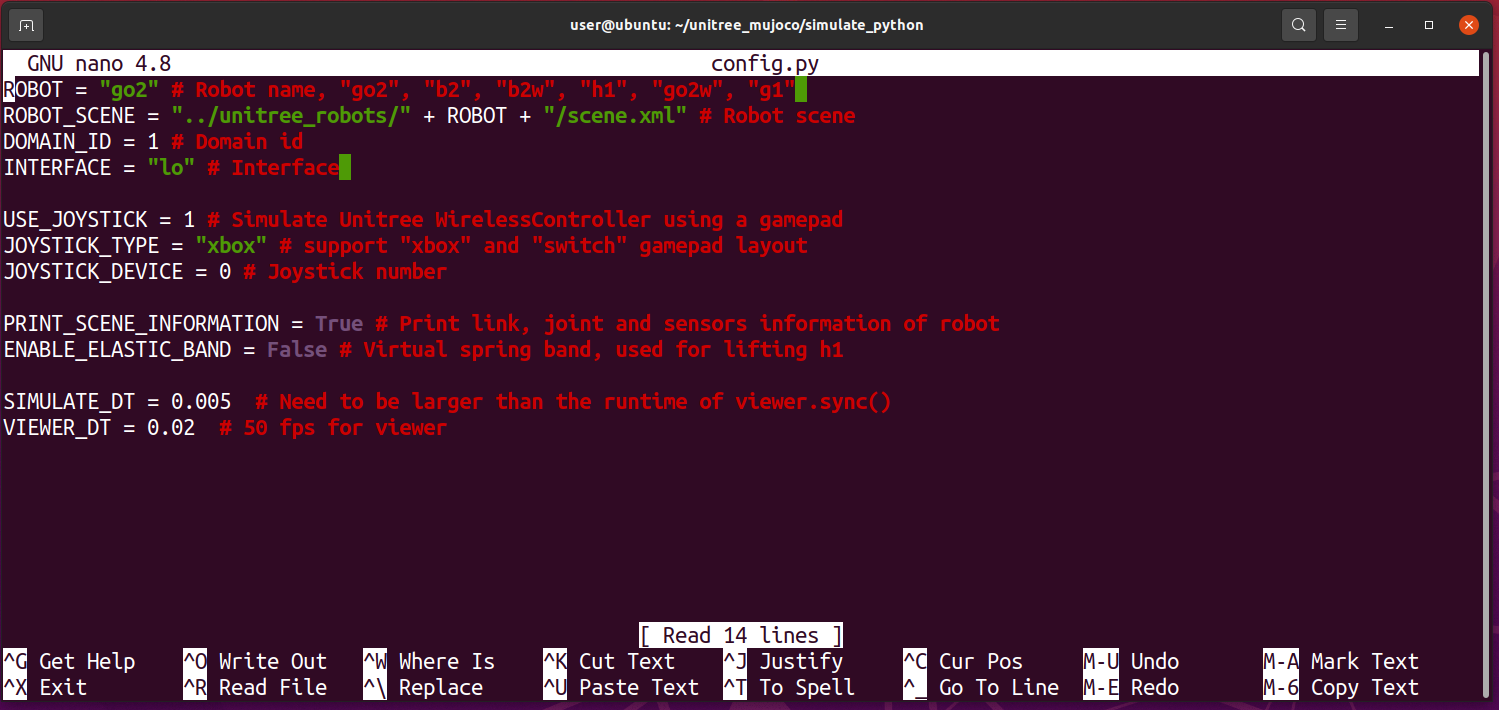
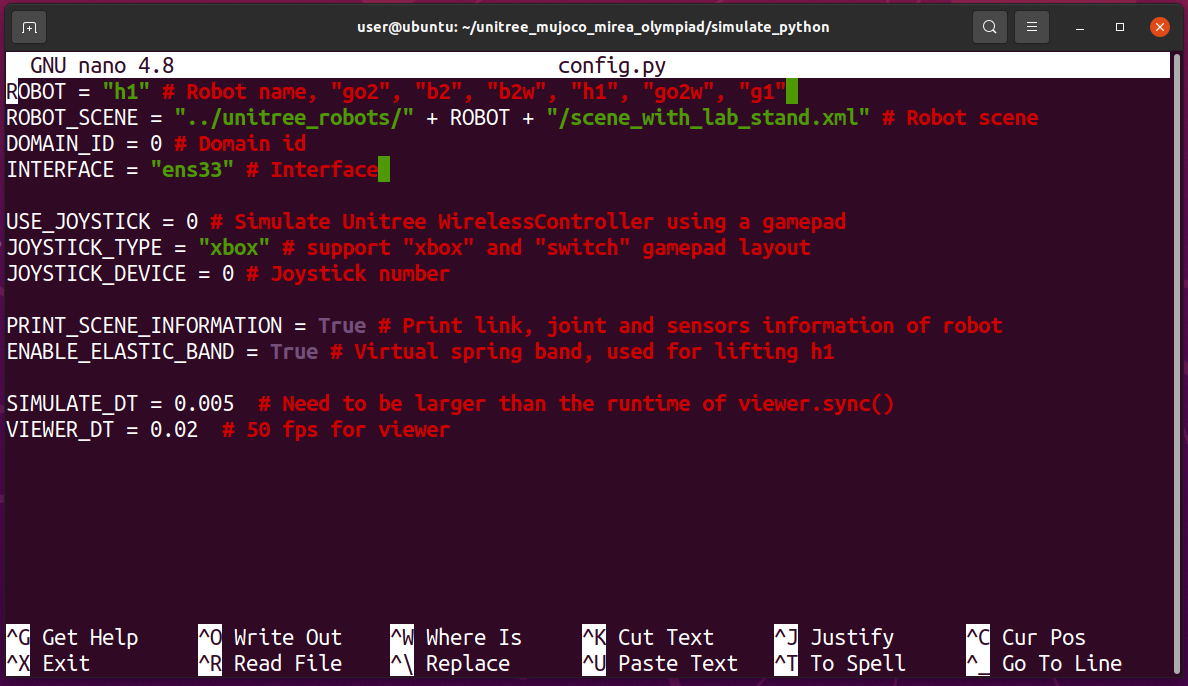
changed config.py info

diff --git a/instructions_and_manuals/5_Как_установить_Mujoco_вместе_с_моделями_Unitree.md b/instructions_and_manuals/5_Как_установить_Mujoco_вместе_с_моделями_Unitree.md
@@ -97,21 +97,28 @@ cd ~/unitree_mujoco_mirea_olympiad/simulate_python
 python3 unitree_mujoco.py
 ```
 
-Должен появиться **робот Unitree H1**, который просто стоит на месте (может не двигаться):
+Должен появиться **робот Unitree H1**, который стоит на месте (может не двигаться):
 
-![Тестовый запуск MuJoCo с робособакой Unitree Go2](photo_for_instructions/mujoco/unitree_mujoco.png)
+![Окно mujoco при запуске с роботом Unitree H1](photo_for_instructions/mujoco/view_when_opened.png)
 
-Если робот не двигается и симуляция как будто остановилась, выполните шаги 8 и 9.
+*Рисунок 3 — Окно mujoco при запуске с роботом Unitree H1*
+
+![Окно mujoco с роботом Unitree H1 при изменении ракурса](photo_for_instructions/mujoco/view_in_the_distance.png)
+
+*Рисунок 4 — Окно mujoco с роботом Unitree H1 при изменении ракурса*
+
+Если робот не двигается и симуляция как будто остановилась, выполните шаги 8 и 9, а если нет — перейдите к шагу 10.
 
 ---
 
 ## ⚙ Шаг 8: Настраиваем подключени
 
-Сейчас симуляция не "общается" с ROS2. Нужно указать правильный сетевой интерфейс и выбрать нужного робота.
+Сейчас симуляция не "общается" с ROS2. Нужно указать правильный сетевой интерфейс.
 
 1. Открой файл настроек:
 
    ```bash
+   cd ~/unitree_mujoco_mirea_olympiad/simulate_python
    nano config.py
    ```
 
@@ -131,7 +138,6 @@ python3 unitree_mujoco.py
 
 3. Вернитесь в `config.py` и измените:
    - `interface` — укажите имя Вашего сетевого интерфейса (например, `"wlan0"`),
-   - убедись, что остальные параметры (подчёркнутые фиолетовым) тоже правильные.
 
    Пример исправленного файла:
 
